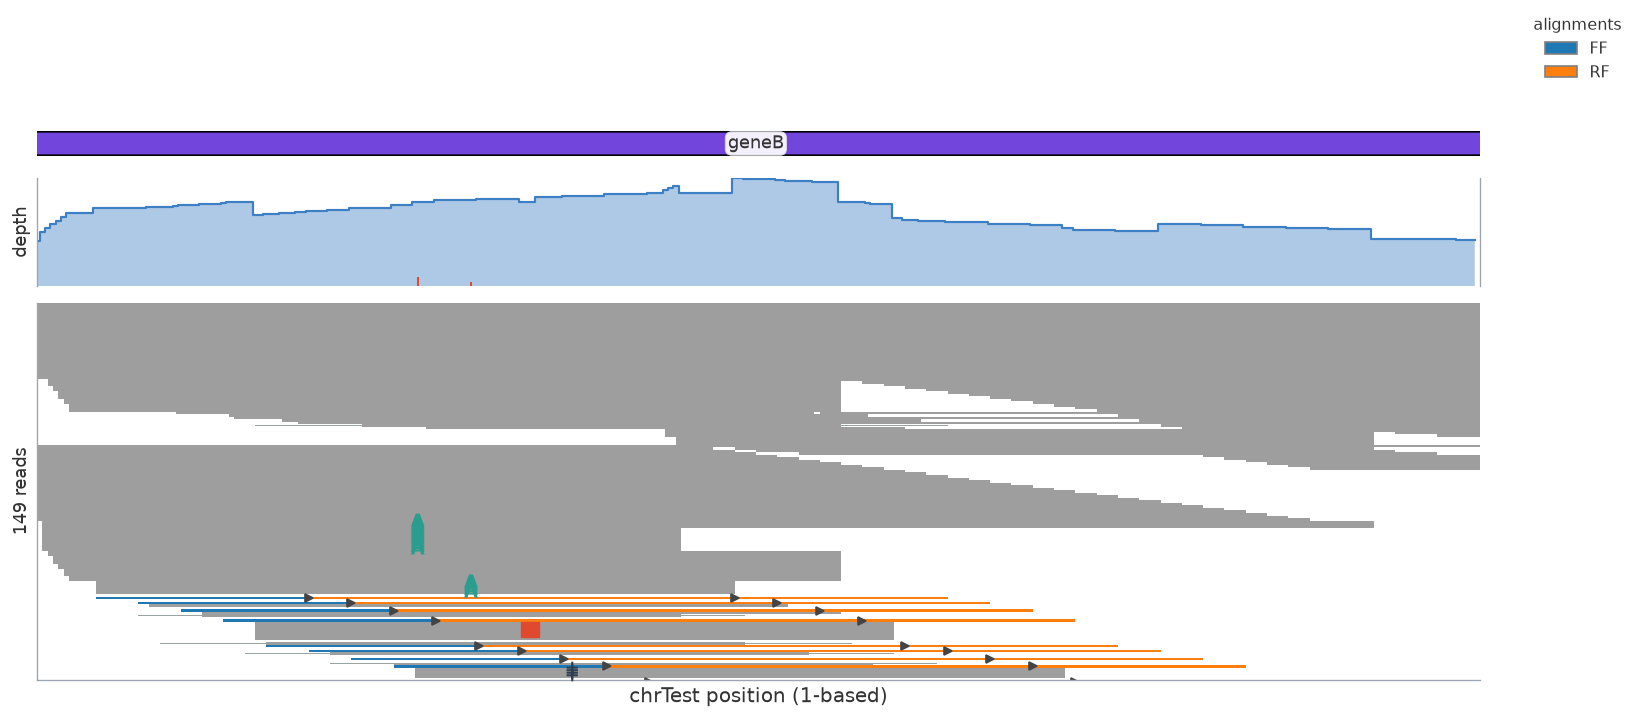
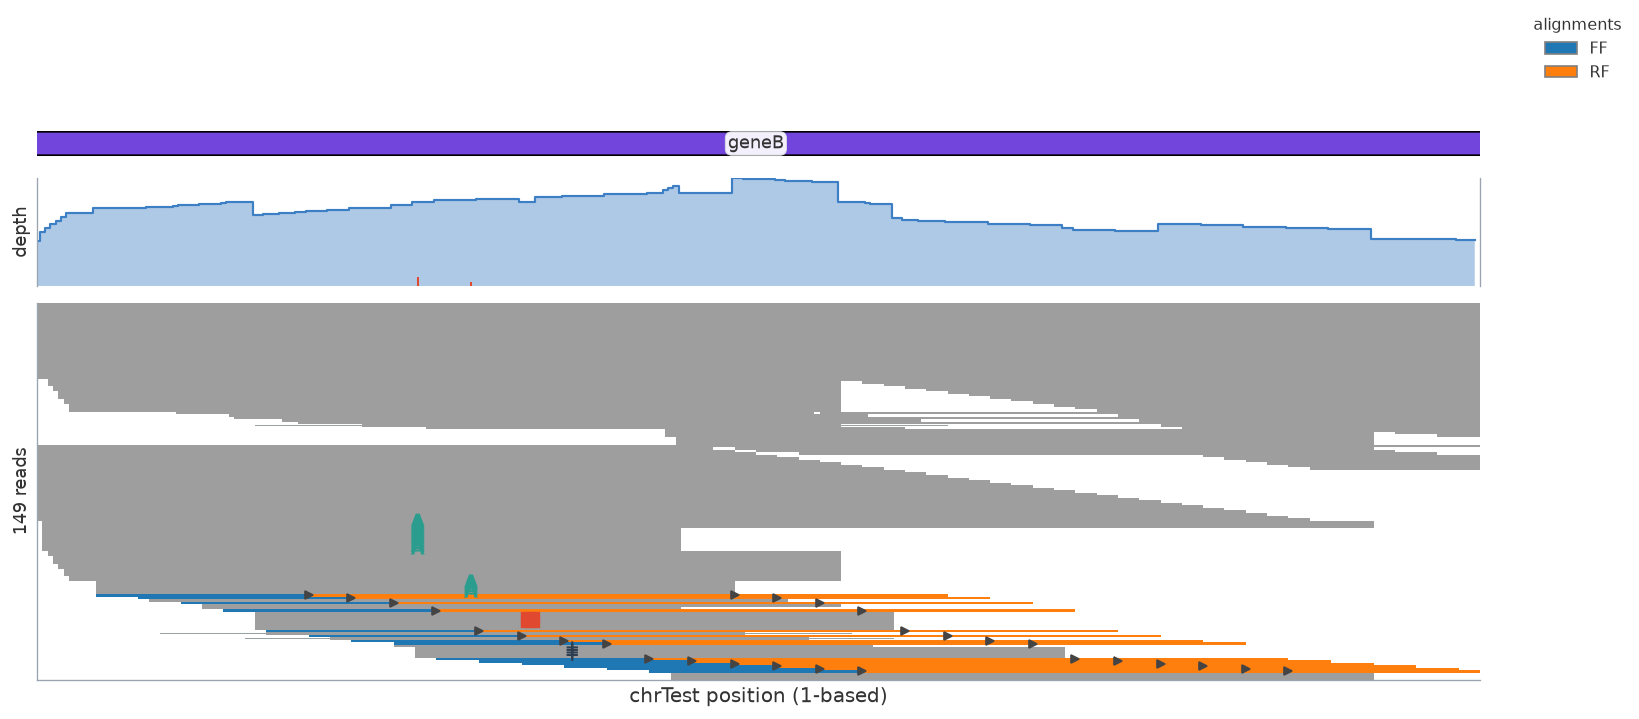
Fix more bugs: pair packing, centred regions, degenerate colormap
- _pack_pairs_into_rows: fix bug where each paired fragment was processed twice
  (string-vs-int 'in' guard never fired), producing duplicate units, wasted rows
  and mis-placement. Now iterates unique read names once; drop dead unit_of.
- Region.from_string / from_any: accept centred 'chr:pos' (window bp each side,
  default 100) so the Python API matches the CLI.
- _read_colormap('insert'): guard against a degenerate Normalize when all insert
  sizes are identical (avoid divide-by-zero warning/nan).
- draw_read_track: remove redundant group_keys computation.

Changed region(s): [[0.0622, 0.8261, 0.9024, 0.9485]]

diff --git a/igvplot/plot.py b/igvplot/plot.py
@@ -170,13 +170,11 @@ def _pack_pairs_into_rows(
     for i in range(len(reads)):
         by_name.setdefault(reads[i].name, []).append(i)
 
+    # each unique fragment/singleton becomes one unit (iterate names, so a
+    # paired fragment is NEVER processed twice)
     units = []  # (name, [read_idxs], (cs, ce), group, sort)
-    unit_of: Dict[int, int] = {}
-    for i in range(len(reads)):
-        name = reads[i].name
-        if name in unit_of:
-            continue
-        idxs = [j for j in by_name[name] if j in valid]
+    for name, idxs_all in by_name.items():
+        idxs = [j for j in idxs_all if j in valid]
         if not idxs:
             continue
         if len(idxs) >= 2:
@@ -186,9 +184,6 @@ def _pack_pairs_into_rows(
             idxs = idxs[:1]
             cs, ce = clipped[idxs[0]]
         units.append((name, idxs, (cs, ce), group_keys[idxs[0]], sort_keys[idxs[0]]))
-        u = len(units) - 1
-        for j in idxs:
-            unit_of[j] = u
 
     labels: List = []
     for (name, idxs, _iv, g, _s) in units:
@@ -378,10 +373,12 @@ def _read_colormap(color_by: str, colormap: str, reads: List[Read], basemod_site
     # IGV-style insert-size thresholds (blue = too short, red = too long).
     sizes = sorted(abs(r.insert_size) for r in reads if r.insert_size > 0)
     if sizes:
-        min_tlen = np.percentile(sizes, 10)
-        max_tlen = np.percentile(sizes, 90)
+        min_tlen = float(np.percentile(sizes, 10))
+        max_tlen = float(np.percentile(sizes, 90))
+        if max_tlen <= min_tlen:  # all inserts identical -> avoid degenerate norm
+            max_tlen = min_tlen + 1.0
     else:
-        min_tlen = max_tlen = 0
+        min_tlen = max_tlen = 0.0
 
     def color_by_strand(r):
         key = "forward" if not r.is_reverse else "reverse"
@@ -516,7 +513,6 @@ def draw_read_track(
     strand_colors = strand_colors or STRAND_COLORS
     base_colors = base_colors or BASE_COLORS
     color_fn = _read_colormap(color_by, colormap, reads, basemod_sites)
-    group_keys = [_read_group_key(r, group_by) for r in reads] if group_by != "none" else None
 
     squished = display_mode == "squished"
     full = display_mode == "full"

diff --git a/tests/test_igvplot.py b/tests/test_igvplot.py
@@ -56,6 +56,14 @@ def test_region_coerce():
     assert Region.from_any(r) == r
 
 
+def test_region_centered_string():
+    # 'chr:pos' is a centred region (window bp each side), 1-based position
+    r = Region.from_string("chr1:1000")
+    assert r.chrom == "chr1"
+    assert r.start == 899 and r.end == 1100  # window 100 each side
+    assert r.length == 201
+
+
 def test_region_invalid():
     with pytest.raises(ValueError):
         Region("chr1", 500, 100)
@@ -166,6 +174,17 @@ def test_color_by_invalid_raises(tmp_path):
     view.add_reads(_data("sample.bam"), reference=_data("genome.fa"), color_by="bogus")
     with pytest.raises(ValueError):
         view.render()
+
+
+def test_color_by_insert_uniform_sizes_renders(tmp_path):
+    # degenerate insert sizes (vmin == vmax) must not raise / warn
+    out = tmp_path / "insert_color.png"
+    plot_view(
+        bam_path=_data("sample.bam"), region="chrTest:6,950-7,140",
+        color_by="insert", paint_base_letters=False, max_reads=60,
+        out_path=str(out), dpi=60, figsize=(8, 4),
+    )
+    assert out.exists() and out.stat().st_size > 0
 
 
 def test_downsampling_reduces_reads():

diff --git a/igvplot/region.py b/igvplot/region.py
@@ -65,14 +65,18 @@ class Region:
     # constructors
     # ------------------------------------------------------------------ #
     @classmethod
-    def from_string(cls, text: str) -> "Region":
+    def from_string(cls, text: str, window: int = 100) -> "Region":
         """Parse a human-readable region.
 
-        Accepts strings such as ``chr1:1,000-2,000`` or ``11:1000-2000``
-        (1-based, inclusive). Commas and whitespace around coordinates are
-        ignored.
+        Accepts ``chr1:1,000-2,000`` (1-based, inclusive) or a centred
+        ``chr1:1,000`` (window bp each side). Commas and whitespace around
+        coordinates are ignored.
         """
         cleaned = re.sub(r"[\s_,]", "", text).strip()
+        # centred 'chr:pos' -> window around a 1-based position
+        centred = re.match(r"^(?P<chrom>[A-Za-z0-9_.]+):(?P<pos>\d+)$", cleaned)
+        if centred:
+            return cls.centered(centred.group("chrom"), int(centred.group("pos")), window)
         match = re.match(r"^(?P<chrom>[A-Za-z0-9_.]+):(?P<start>\d+)-(?P<end>\d+)$", cleaned)
         if not match:
             raise ValueError(
